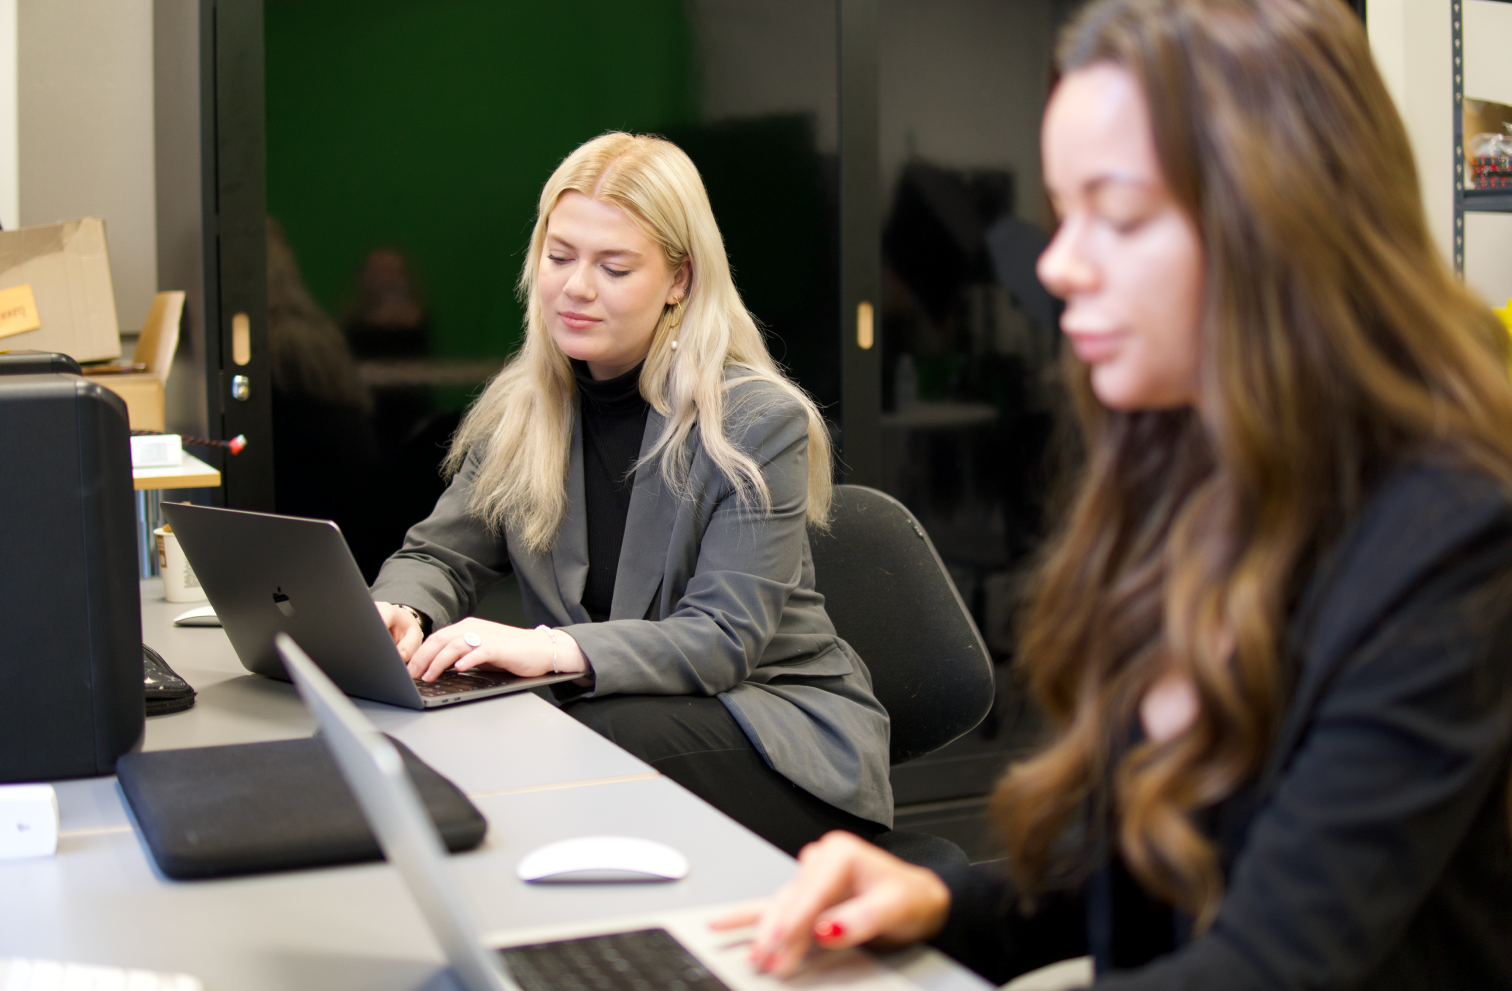
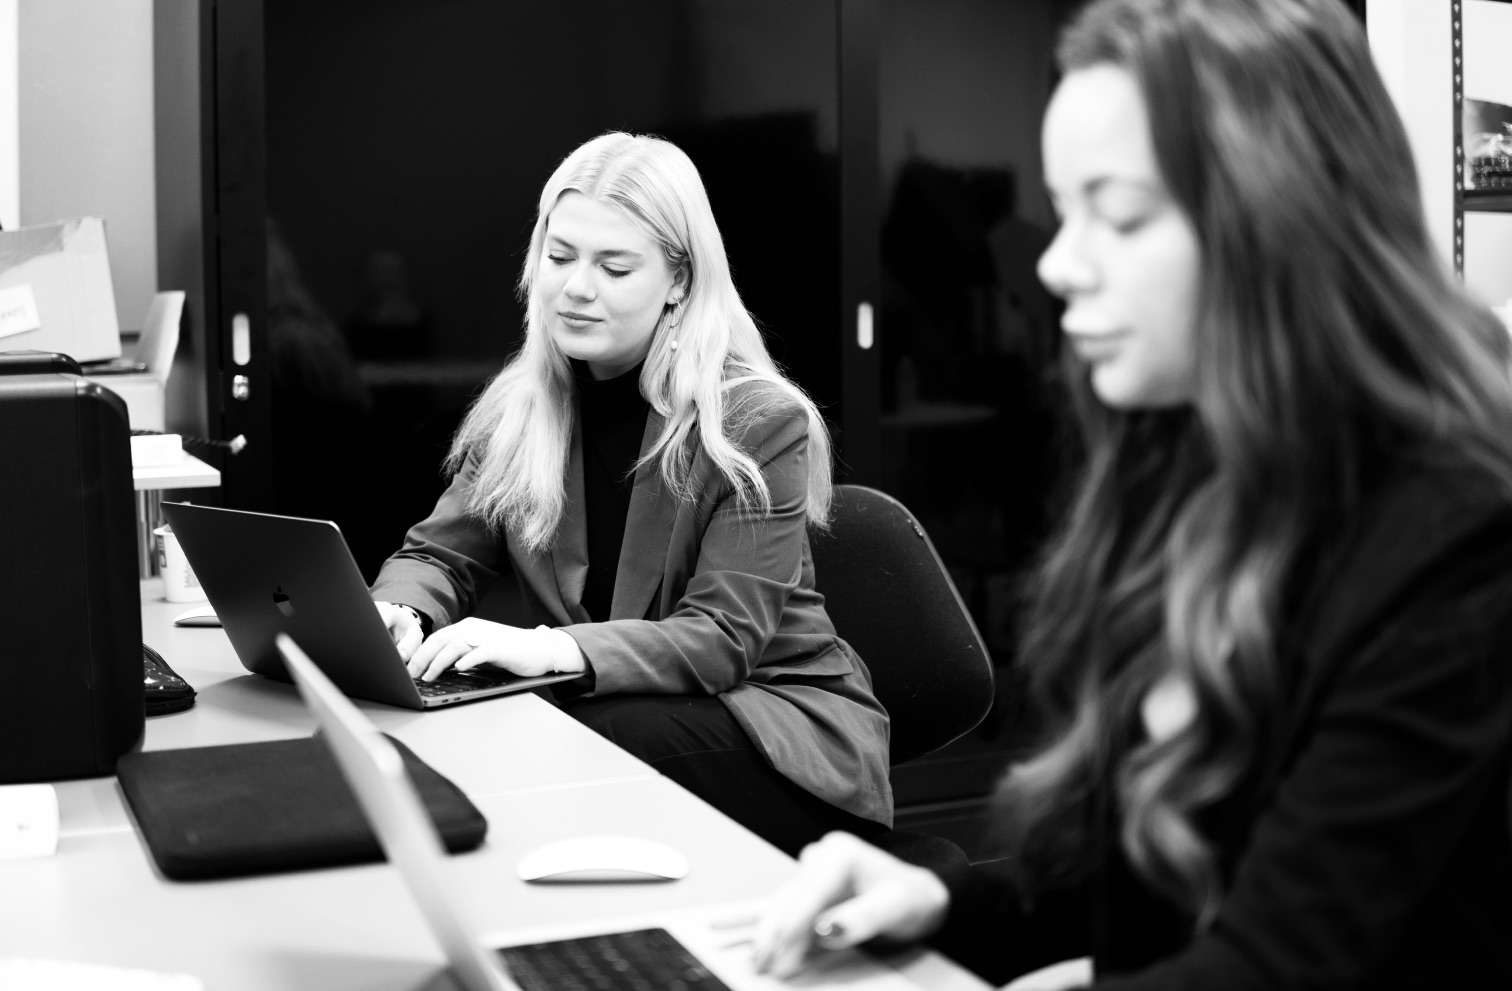
ændringer css header + arrow hero section + billeder grå

diff --git a/css/style1.css b/css/style1.css
@@ -38,24 +38,29 @@ body{
     left: 0;
     width: 100%;
     user-select: none;
+    height: 100px;
   }
-  
-  .nav__logo img{
+nav{
+  height: 100px;
+}
+
+.nav__logo img{
     width: 150px;
     left: 130px;
-  }
+}
   
 .nav__menu {
   font-size: 60px;
+  margin-top: 40px;
 }
 
   nav {
-    height: 3.5rem;
+    height: 100px;
     padding: 20px;
     display: flex;
     justify-content: space-between;
     align-items: center;
-  }
+}
   
   .nav__burger {
     color: #000;
@@ -64,9 +69,7 @@ body{
     color: #EB003F;
   }
   
-  .nav__data {
-    height: 100%;
-  }
+  
   
   
   
@@ -137,6 +140,7 @@ body{
     color: #36383a;
     display: flex;
     align-items: center;
+    justify-content: start;
     column-gap: .5rem;
     transition: background-color .3s;
     border-radius: 20px;
@@ -206,6 +210,7 @@ body{
     .nav__list {
       height: 100%;
       display: flex;
+      
       column-gap: 3rem;
     }
     .nav__link {
@@ -275,7 +280,29 @@ body{
       display: flex;
       justify-content: space-between;
     }
-    
+
+    .services_info img{
+      display: none;
+
+    }
+    .services_info{
+      display: flex;
+      align-items: center;
+      justify-content: center;
+
+    }
+    .show-menu {
+      opacity: 1;
+      top: 3.5rem;
+      pointer-events: initial;
+    }
+    .hero_arrow{
+opacity: 0;    }
+    .nav__list{
+      display: flex;
+      justify-content: start;
+      flex-direction: column;
+    }
   }
 
 
@@ -284,11 +311,15 @@ body{
   max-width: 100%;
 }
 
-.hero_section span{
-  position: absolute;
+.front_image {
   display: flex;
+  justify-content: center;
   align-items: center;
-  justify-content: end;
+  flex-direction: column;
+}
+
+.hero_arrow{
+  font-size: 30px;
 }
 
 
@@ -338,11 +369,16 @@ body{
   flex-direction: row;
   padding: 20px;
   height: 40vh;
+  filter: grayscale(100%);
   
 }
 
 .service_image{
   padding: 20px;
+}
+
+.services_line a:hover{
+  text-decoration:underline;
 }
 
 
@@ -351,16 +387,47 @@ body{
   display: grid;
   grid-template-columns: 1fr 1fr;
   margin: 50pxc 0;
+  margin: 100px 0;
+  padding: 20px;
+  gap: 30px;
 }
 
+.about_images img{
+  max-width: 100%;
+  border-radius: 30px;
+}
 
+.about_text{
+  background-color: #EB003F;
+  border-radius: 30px;
+  padding: 20px;
+  color: #fff;
+  line-height: 30px;
+}
+
+.about_text a, p{
+  color: #fff;
+  font-family: Arial, Helvetica, sans-serif;
+}
+.about_text h2{
+  font-size: 30px;
+  line-height: 40px;
+}
+
+@media screen and (max-width: 1100px) {
+  .about_section{
+    display: flex;
+    flex-direction: column;
+  }
+  
+}
   
 
 /*<img class="line_white" src="img/linjehvid.png" alt="">*/
   /*Kontaktformular*/
 
   .contact_us{
-    margin: 30px 20px;
+    margin: 30px 0 0 0;
   }
 
   .contact_text{
@@ -419,7 +486,14 @@ input[type=submit]{
     font-size: 20px;
     margin-top: 1em;
     cursor: pointer;
+    border: 1px solid #EB003F;
 
+  
+}
+input[type=submit]:hover{
+  background-color: white;
+  color: #EB003F;
+  transition: 0.4s ease-in-out;
 }
 
 .visually-hidden{ /*WCAG defineret class som fjerner element fra skærm, men som stadig kan læses af skærmlæseren*/
@@ -528,7 +602,12 @@ input[type=submit]{
 }
 
 .contact_us{
-  background-image: url(../img/work-kontaktformular.png);
+  background: linear-gradient(rgba(142,142,142, 0.8), rgba(142,142,142,0.8)), url(../img/work-kontaktformular.png);
+  padding: 50px 30px;
+  background-repeat: no-repeat;
+  background-size: cover;
+  background-position: center;
+    background-size: cover;
 }
 
 

diff --git a/index.html b/index.html
@@ -97,15 +97,18 @@
             </section>
             <section class="about_section">
                 <div class="about_images">
-                    <img src="" alt="Medarbejder i møde">
+                    <img src="img/omos.png" alt="">
                 </div>
                 <div class="about_text">
                     <h2>Om os</h2>
-                    <p>Vi er passionerede eksperter indenfor multimedieløsninger, der fokuserer på at bringe lokale virksomheder indenfor restaurationsbranchen til nye højder. Hos os forstår vi, at et stærkt online tilstedeværelse og en unik brandidentitet er afgørende for succes i dagens konkurrenceprægede marked. 
-                        Hos Spicy Media tror vi på at skabe forbindelser. Vi går ud over det sædvanlige ved at tilbyde en helt personlig oplevelse for vores kunder. Vi lytter til dine behov, forstår din vision og skræddersyr løsninger, der passer præcis til dig. 
-                        Vi tror på at dele viden og styrke vores kunders evner. Derfor tilbyder vi workshops og seminarer, hvor du kan lære at forbedre din marketingindsats og udbygge dit netværk. Vi tror på, at din succes er vores succes.
+                    <p>Vi er passionerede eksperter indenfor multimedieløsninger, der fokuserer på at bringe lokale virksomheder indenfor restaurationsbranchen til nye højder. 
+
+                    <p>Hos os forstår vi, at et stærkt online tilstedeværelse og en unik brandidentitet er afgørende for succes i dagens konkurrenceprægede marked. 
+                        Hos Spicy Media tror vi på at skabe forbindelser. Vi går ud over det sædvanlige ved at tilbyde en helt personlig oplevelse for vores kunder. Vi lytter til dine behov, forstår din vision og skræddersyr løsninger, der passer præcis til dig. </p>
+
+                    <p>Vi tror på at dele viden og styrke vores kunders evner. Derfor tilbyder vi workshops og seminarer, hvor du kan lære at forbedre din marketingindsats og udbygge dit netværk. Vi tror på, at din succes er vores succes.</p>
                         
-                        Vi er drevet af en mission om at hjælpe lokale restaurationsvirksomheder med at skille sig ud, trives online og skabe langvarige forbindelser med deres kunder.</p>
+                        <p>Vi er drevet af en mission om at hjælpe lokale restaurationsvirksomheder med at skille sig ud, trives online og skabe langvarige forbindelser med deres kunder.</p>
                     <a href="#">Læs mere om os...</a>
                 </div>
             </section>
@@ -131,8 +134,8 @@
                     
                             <label class="visually-hidden"  for="telefonnummer">telefonnummer</label>
                             <input id="telefonnummer" type="tel" placeholder="Telefonnummer">
-                            <label for="dropdown">Regioner</label>
-                                <select id="dropdown" name="select">
+                            <label class="visually-hidden"  for="dropdown">Regioner</label>
+                                <select  id="dropdown" name="select">
                                     <option value="0" selected="true" disabled >Vælg region</option>
                                     <option value="1">Region nordjylland</option>
                                     <option value="2">Region sjælland </option>

diff --git a/website.html b/website.html
@@ -3,7 +3,7 @@
 <head>
     <meta charset="UTF-8">
     <meta name="viewport" content="width=device-width, initial-scale=1.0">
-    <title>Om os</title>
+    <title>WEBSITE</title>
     <script src="main.js" ></script>
     <link rel="stylesheet" href="css/website.css">
     <script src="https://kit.fontawesome.com/7927fc2c12.js" crossorigin="anonymous"></script>
@@ -72,7 +72,7 @@
 
       <!--banner-->
       <section class="header-img">
-         <img class="bg-billede-desktop" src="img/work-kontaktformular.png" alt="baggrundsbillede oliva og signe">
+         <div class="banner_image"></div>
          <div class="banner-tekst" >
              <h1>Website</h1>
          </div>
@@ -117,9 +117,7 @@
          </div>
          <div class="website_text3">
             <h2>Hvorfor vælge os</h2>
-            <div class="website_image2">
-               <img src="img/services.png" alt="">
-            </div>
+           
             <div class="aboutwebsite3">
                <p>Hvorfor Vælge Os:
 
@@ -132,6 +130,9 @@
                   for din virksomhed!
                </p>
             </div>
+            <div class="website_image2">
+               <img src="img/services.png" alt="">
+            </div>
          </div>
       </section>
 
@@ -140,31 +141,31 @@
    <section class="website_process">
       <h2>Processen</h2>
 
-    <div class="processen1">
-         <div class="processen">
-            <h3>Kontakt</h3>
-            <i class="fa-solid fa-comment-dots"></i>
-         </div>
-
-         <div class="processen">
-            <div>
-               <h3>Samtale</h3>
+      <div class="processen1">
+            <div class="processen">
+               <h3>Kontakt</h3>
+               <i class="fa-solid fa-comment-dots"></i>
             </div>
-            <div>
-               <i class="fa-solid fa-comments"></i>
+
+            <div class="processen">
+               <div>
+                  <h3>Samtale</h3>
+               </div>
+               <div>
+                  <i class="fa-solid fa-comments"></i>
+               </div>
+            </div>
+
+            <div class="processen">
+               <h3>Idegenerering</h3>
+               <i class="fa-solid fa-lightbulb"></i>
+            </div>
+
+            <div class="processen">
+               <h3>Final product</h3>
+               <i class="fa-solid fa-handshake"></i>
             </div>
          </div>
-
-         <div class="processen">
-            <h3>Idegenerering</h3>
-            <i class="fa-solid fa-lightbulb"></i>
-         </div>
-
-         <div class="processen">
-            <h3>Final product</h3>
-            <i class="fa-solid fa-handshake"></i>
-         </div>
-      </div>
    </section>
  
 

diff --git a/css/website.css b/css/website.css
@@ -54,6 +54,14 @@ nav a,h2{
     text-align: center;
 }
 
+.banner_image{
+  background-image: url(../img/work-kontaktformular.png);
+    background-repeat: no-repeat;
+    background-size: cover;
+    background-position: center;
+    max-height: 100%;
+}
+
 h1{
     font-size: 4.5vw;
     font-family: vogue;
@@ -291,7 +299,7 @@ h1{
   }
 
 /*sectioner med tekst og billeder website*/
-.website_text1{
+.website_text1, .website_Text2, .website_text3{
   display: flex;
 
 }
@@ -299,11 +307,11 @@ h1{
 
 
 .website_section{
-  margin: 0 100px;
-  display: grid;
-  grid-template-rows: repeat(3, 1fr);
-  margin: 20px 100px;
-
+ display: flex;
+flex-direction: column;
+margin: 0 100px;
+align-items: center;
+justify-content: center;
 }
 
 .website_section img{

diff --git a/about.html b/about.html
@@ -71,8 +71,8 @@
    </header>
    <main>
       <section class="hero_about">
-         <div class="hero_image">
-         </div>
+         <img class="hero_aboutimage" src="img/work-kontaktformular.png" alt="Mederbejdere arbejder">
+         <span>Om os</span>
       </section>
    <div class="container_about">  
       <section class="hero_about">
